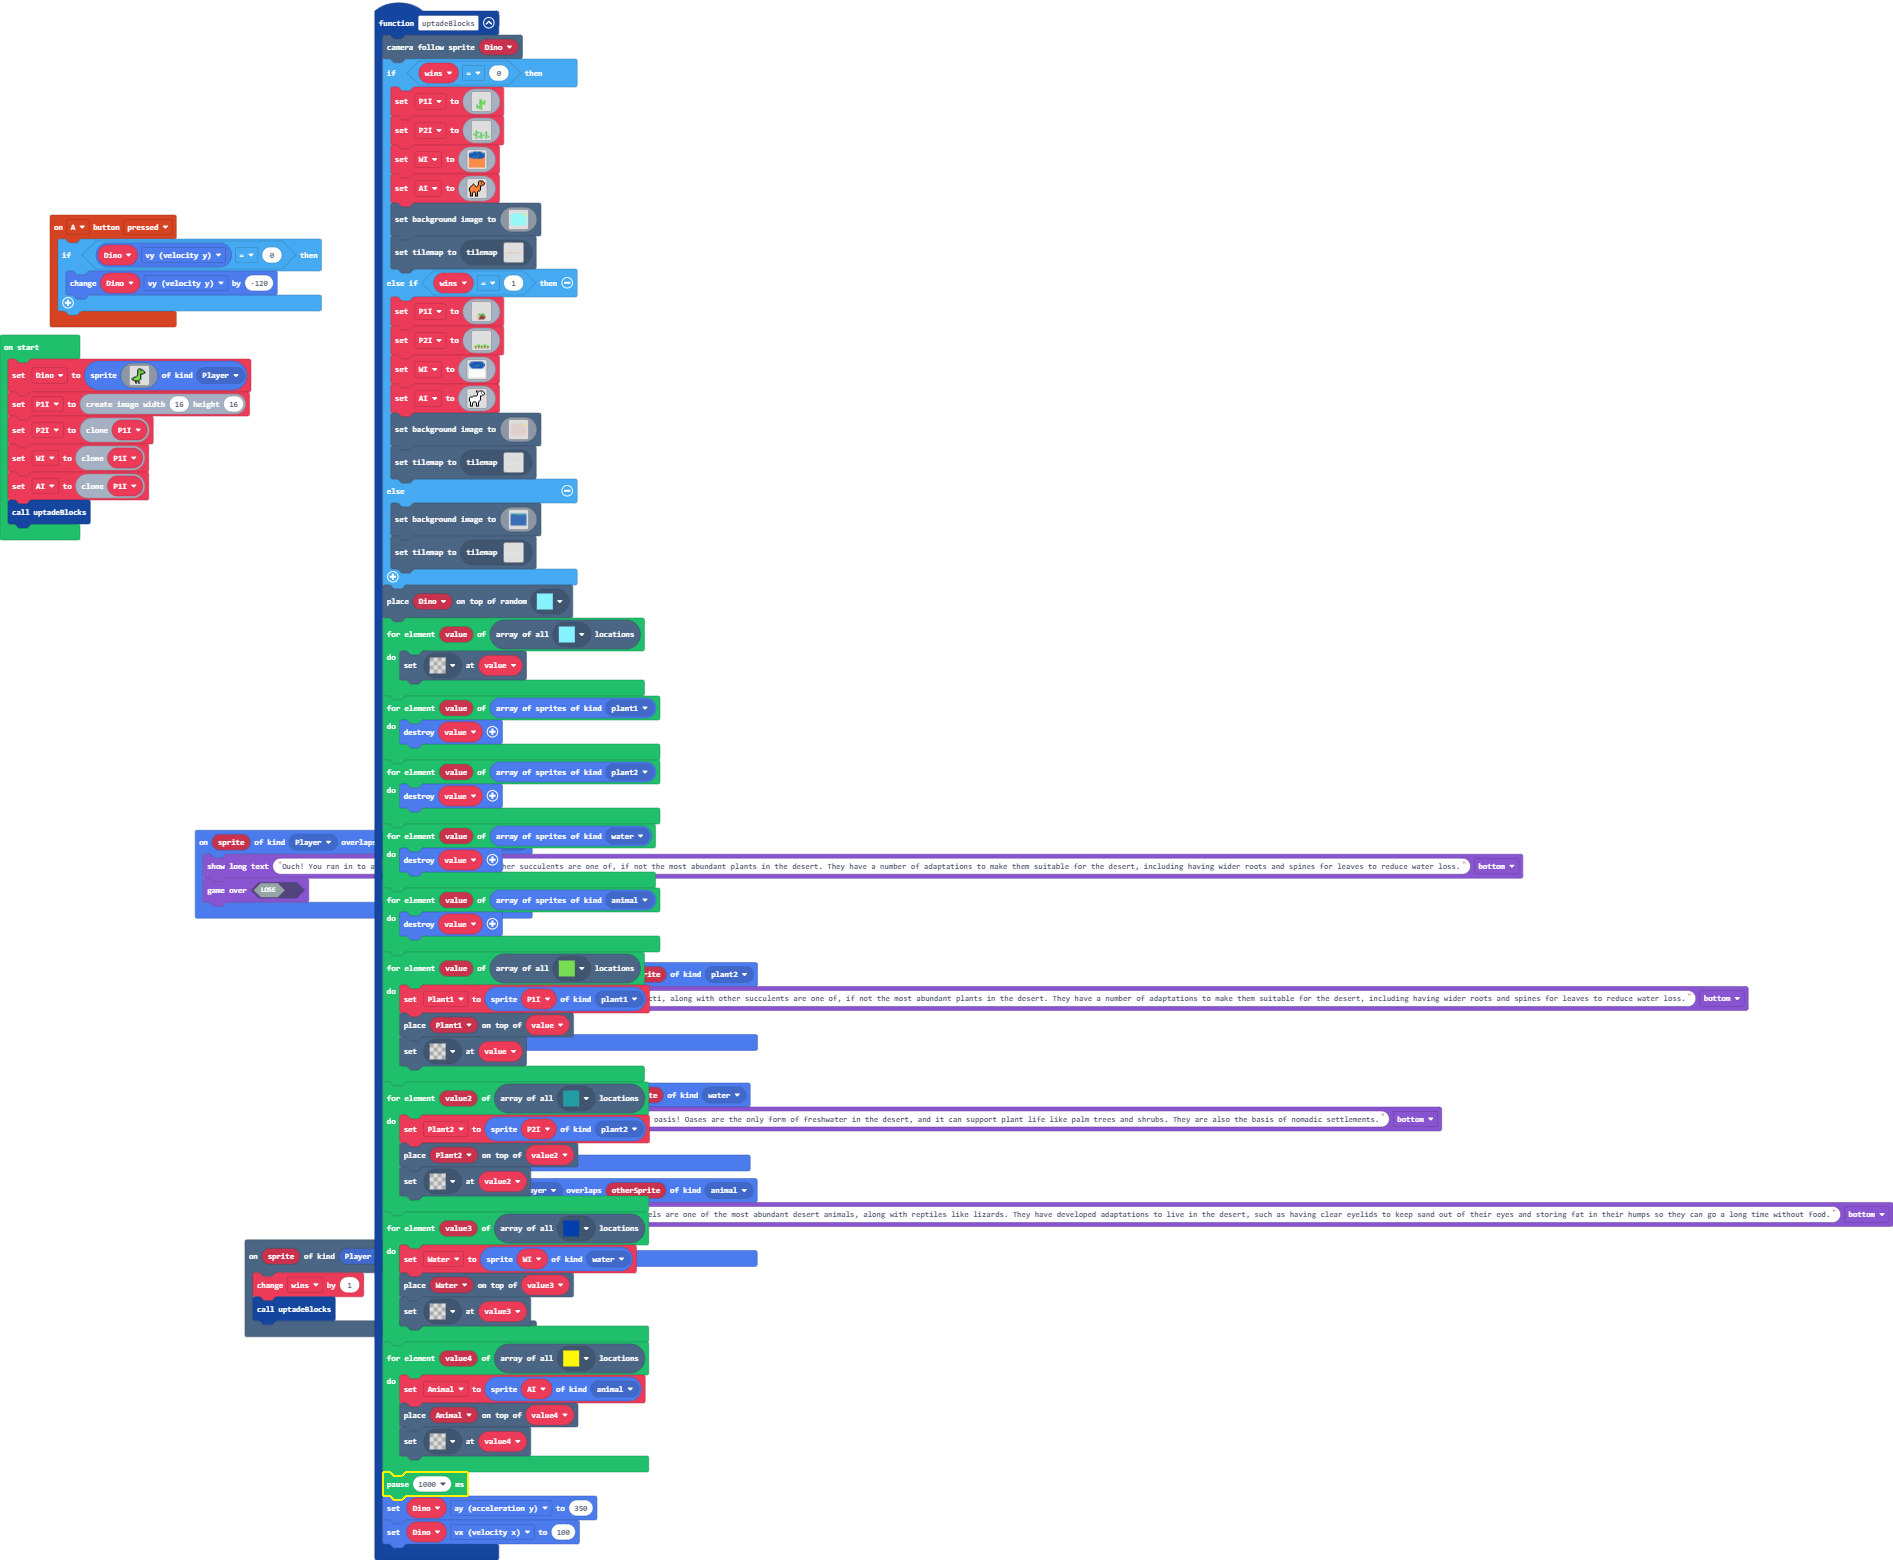
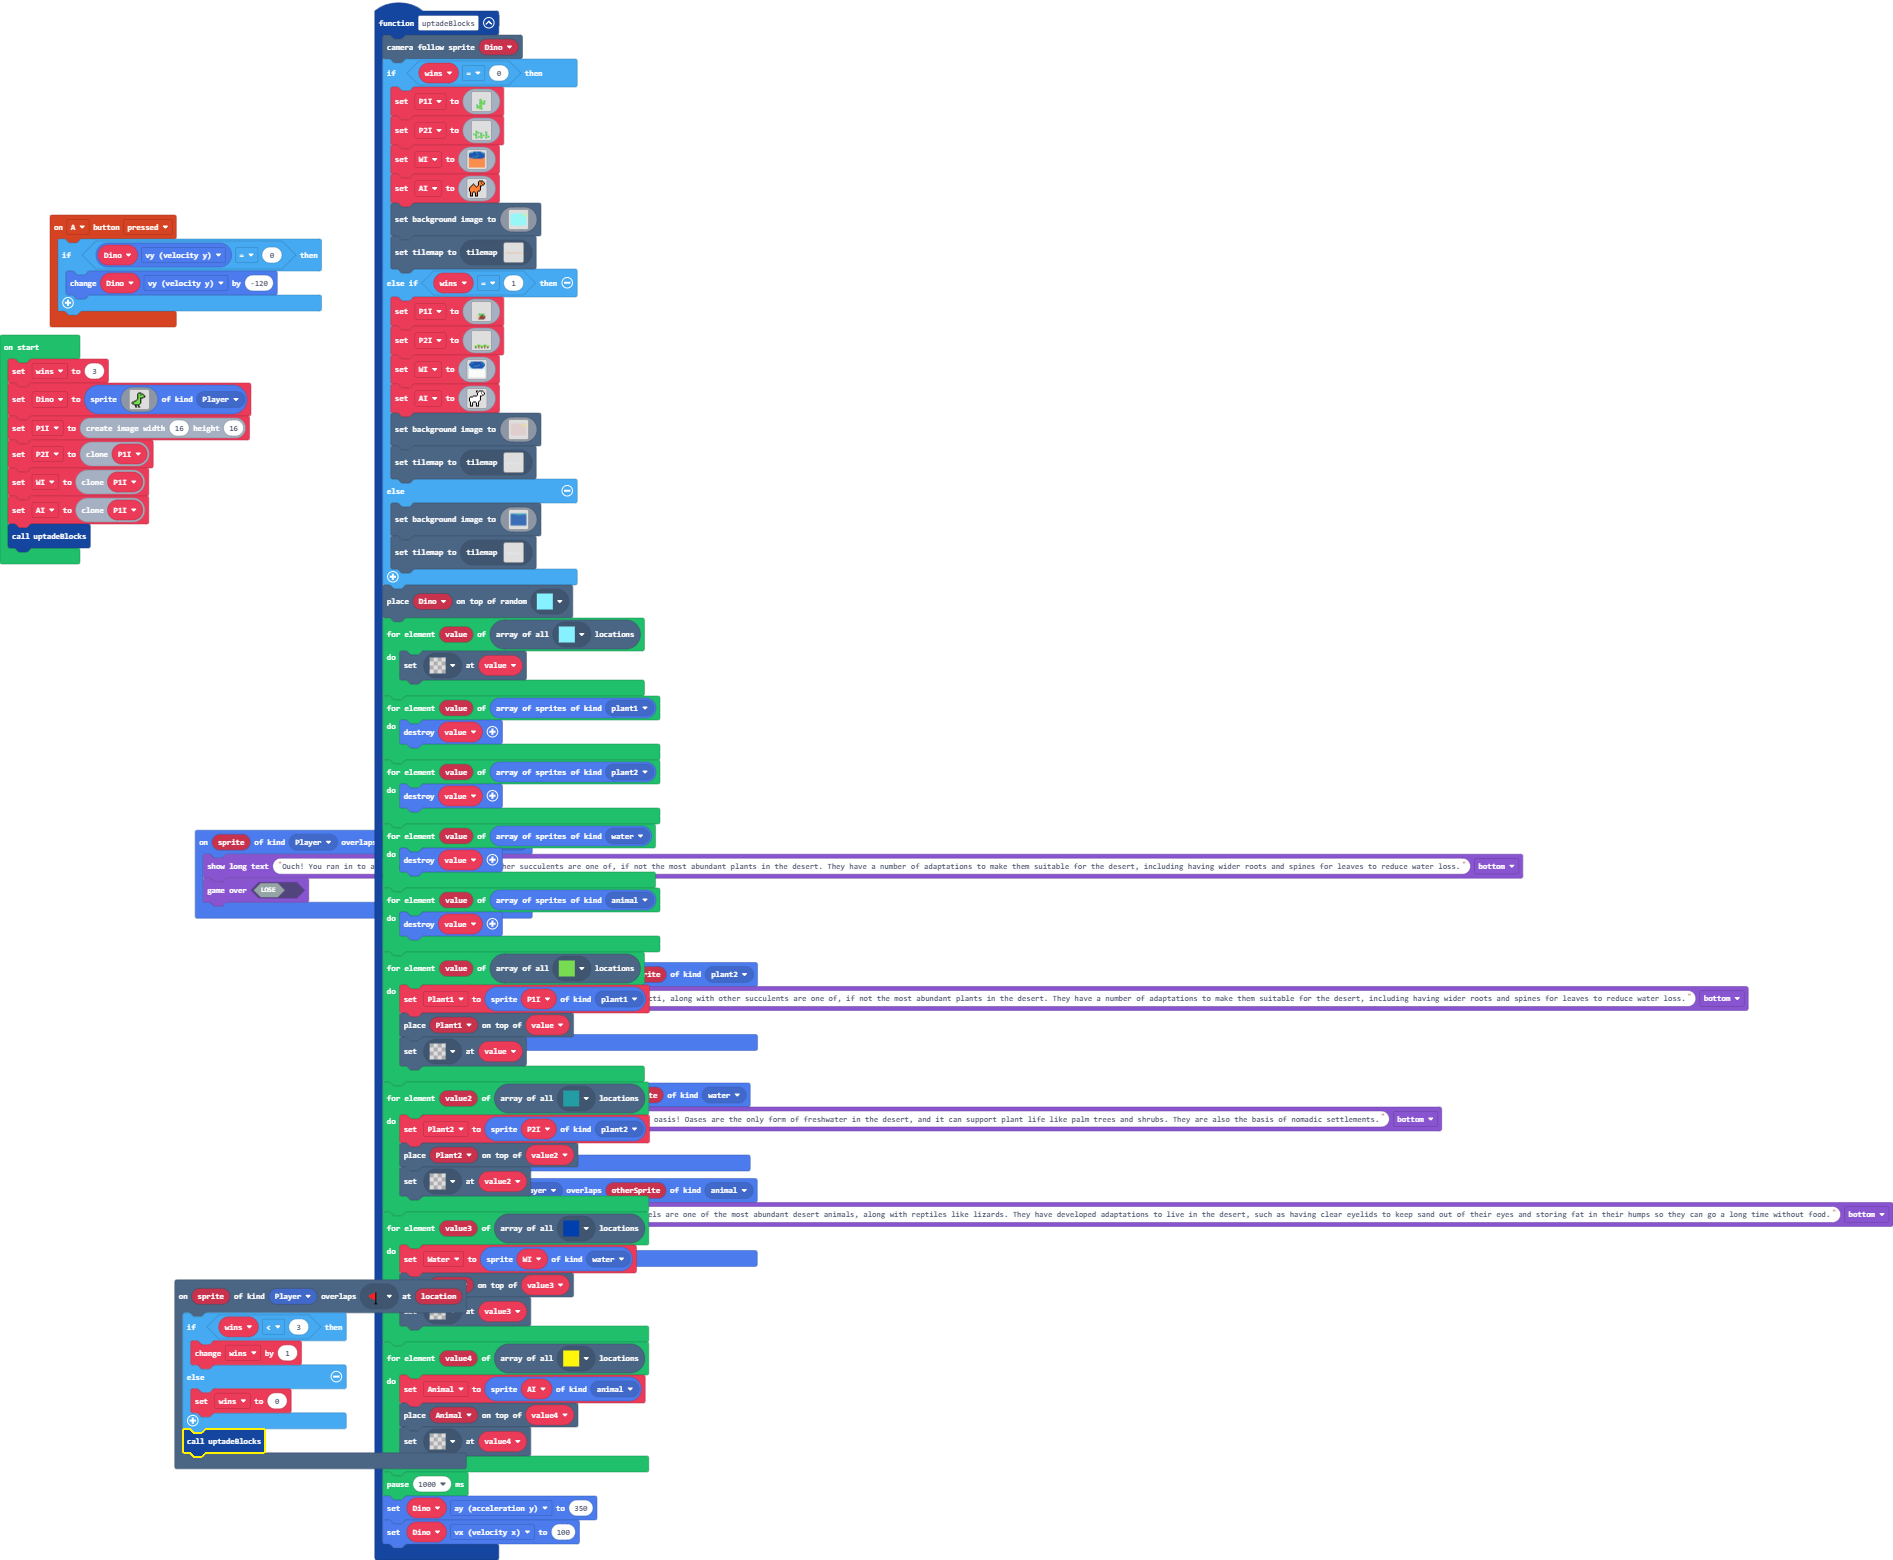
Update main.blocks, main.ts, tilemap.g.jres, tilemap.g.ts

Changed region(s): [[0.0935, 0.7692, 0.2493, 0.9538], [0.0, 0.2154, 0.1558, 0.3692]]

diff --git a/tilemap.g.ts b/tilemap.g.ts
@@ -80,25 +80,6 @@ namespace myTiles {
 . . . . . . . . . . . . . . . . 
 . . . . . . . . . . . . . . . . 
 `, [myTiles.transparency16], TileScale.Sixteen);
-            case "level3":
-            case "level3":return tiles.createTilemap(hex`6400100000000000000000000000000000000000000000000000000000000000000000000000000000000000000000000000000000000000000000000000000000000000000000000000000000000000000000000000000000000000000000000000000000000000000000000000000000000000000000000000000000000000000000000000000000000000000000000000000000000000000000000000000000000000000000000000000000000000000000000000000000000000000000000000000000000000000000000000000000000000000000000000000000000000000000000000000000000000000000000000000000000000000000000000000000000000000000000000000000000000000000000000000000000000000000000000000000000000000000000000000000000000000000000000000000000000000000000000000000000000000000000000000000000000000000000000000000000000000000000000000000000000000000000000000000000000000000000000000000000000000000000000000000000000000000000000000000000000000000000000000000000000000000000000000000000000000000000000000000000000000000000000000000000000000000000000000000000000000000000000000000000000000000000000000000000000000000000000000000000000000000000000000000000000000000000000000000000000000000000000000000000000000000000000000000000000000000000000000000000000000000000000000000000000000000000000000000000000000000000000000000000000000000000000000000000000000000000000000000000000000000000000000000000000000000000000000000000000000000000000000000000000000000000000000000000000000000000000000000000000000000000000000000000000000000000000000000000000000000000000000000000000000000000000000000000000000000000000000000000000000000000000000000000000000000000000000000000000000000000000000000000000000000000000000000000000000000000000000000000000000000000000000000000000000000000000000000000000000000000000000000000000000000000000000000000000000000000000000000000000000000000000000000000000000000000000000000000000000000000000000000000000000000000000000000000000000000000000000000000000000000000000000000000000000000000000000000000000000000000000000000000000000000000000000000000000000000000000000000000000000000000000000000000000000000000000000000000000000000000000000000000000000000000000000000000000000000000000000000000000000000000000000000000000000000000000000000000000000000000000000000000000000000000000000000000000000000000000000000000000000000000000000000000000000000000000000000000000000000000000000000000000000000000000000000000000000000000000000000000000000000000000000000000000000000000000000000000000000000000000000000000000000000000000000000000000000000000000000000000000000000000000000000000000000000000000000000000000000000000000000000000000000000000000000000000000000000000000000000000000000000000000000000000000000000000000000000000000000000000004000000000000000200000000000000000000000000000000000300000000000400000000000000000000000002000000000003000000000000000000000002000000000000000200000000000000000000010606060606060606060506060606060606060606060606060606060606060606060606050606060606060606060606060606060606060606050606060606060606060606060606060606050606060606060606060606060606060606060606060606060607070707070707070707070707070707070707070707070707070707070707070707070707070707070707070707070707070707070707070707070707070707070707070707070707070707070707070707070707070707070707070707070707070707`, img`
-....................................................................................................
-....................................................................................................
-....................................................................................................
-....................................................................................................
-....................................................................................................
-....................................................................................................
-....................................................................................................
-....................................................................................................
-....................................................................................................
-....................................................................................................
-....................................................................................................
-....................................................................................................
-....................................................................................................
-....................................................................................................
-222222222.2222222222222222222222222.22222222222222222222.22222222222222222.2222222222222222222222222
-....................................................................................................
-`, [myTiles.transparency16,myTiles.tile7,myTiles.tile1,myTiles.tile5,myTiles.tile6,myTiles.tile3,myTiles.tile4,myTiles.tile9], TileScale.Sixteen);
             case "level6":
             case "level6":return tiles.createTilemap(hex`1000100000000000000000000000000000000000000000000000000000000000000000000000000000000000000000000000000000000000000000000000000000000000000000000000000000000000000000000000000000000000000000000000000000000000000000000000000000000000000000000000000000000000000000000000000000000000000000000000000000000000000000000000000000000000000000000000000000000000000000000000000000000000000000000000000000000000000000000000000000000000000000000000000000000000000000000000000000000000000000000000000000000000000000000000000000000000`, img`
 . . . . . . . . . . . . . . . . 
@@ -460,6 +441,25 @@ namespace myTiles {
 . . . . . . . . . . . . . . . . 
 . . . . . . . . . . . . . . . . 
 `, [myTiles.transparency16], TileScale.Sixteen);
+            case "level3":
+            case "level3":return tiles.createTilemap(hex`6400100000000000000000000000000000000000000000000000000000000000000000000000000000000000000000000000000000000000000000000000000000000000000000000000000000000000000000000000000000000000000000000000000000000000000000000000000000000000000000000000000000000000000000000000000000000000000000000000000000000000000000000000000000000000000000000000000000000000000000000000000000000000000000000000000000000000000000000000000000000000000000000000000000000000000000000000000000000000000000000000000000000000000000000000000000000000000000000000000000000000000000000000000000000000000000000000000000000000000000000000000000000000000000000000000000000000000000000000000000000000000000000000000000000000000000000000000000000000000000000000000000000000000000000000000000000000000000000000000000000000000000000000000000000000000000000000000000000000000000000000000000000000000000000000000000000000000000000000000000000000000000000000000000000000000000000000000000000000000000000000000000000000000000000000000000000000000000000000000000000000000000000000000000000000000000000000000000000000000000000000000000000000000000000000000000000000000000000000000000000000000000000000000000000000000000000000000000000000000000000000000000000000000000000000000000000000000000000000000000000000000000000000000000000000000000000000000000000000000000000000000000000000000000000000000000000000000000000000000000000000000000000000000000000000000000000000000000000000000000000000000000000000000000000000000000000000000000000000000000000000000000000000000000000000000000000000000000000000000000000000000000000000000000000000000000000000000000000000000000000000000000000000000000000000000000000000000000000000000000000000000000000000000000000000000000000000000000000000000000000000000000000000000000000000000000000000000000000000000000000000000000000000000000000000000000000000000000000000000000000000000000000000000000000000000000000000000000000000000000000000000000000000000000000000000000000000000000000000000000000000000000000000000000000000000000000000000000000000000000000000000000000000000000000000000000000000000000000000000000000000000000000000000000000000000000000000000000000000000000000000000000000000000000000000000000000000000000000000000000000000000000000000000000000000000000000000000000000000000000000000000000000000000000000000000000000000000000000000000000000000000000000000000000000000000000000000000000000000000000000000000000000000000000000000000000000000000000000000000000000000000000000000000000000000000000000000000000000000000000000000000000000000000000000000000000000000000000000000000000000000000000000000000000000000000000000000000000000000000000000000000000000000000000000000000000000000000000000000000000000000000000000000000000000000000000000000000000000000000000000000000000000000000000000000000000000000000000010202020202020202020002020202020202020202020202020202020202020202020202000202020202020202020202020202020202020202000202020202020202020202020202020202000202020202020202020202020202020202020202020202020203030303030303030303030303030303030303030303030303030303030303030303030303030303030303030303030303030303030303030303030303030303030303030303030303030303030303030303030303030303030303030303030303030303`, img`
+....................................................................................................
+....................................................................................................
+....................................................................................................
+....................................................................................................
+....................................................................................................
+....................................................................................................
+....................................................................................................
+....................................................................................................
+....................................................................................................
+....................................................................................................
+....................................................................................................
+....................................................................................................
+....................................................................................................
+....................................................................................................
+222222222.2222222222222222222222222.22222222222222222222.22222222222222222.2222222222222222222222222
+....................................................................................................
+`, [myTiles.transparency16,myTiles.tile7,myTiles.tile4,myTiles.tile9], TileScale.Sixteen);
         }
         return null;
     })

diff --git a/main.ts b/main.ts
@@ -589,7 +589,11 @@ sprites.onOverlap(SpriteKind.Player, SpriteKind.water, function (sprite, otherSp
     game.gameOver(false)
 })
 scene.onOverlapTile(SpriteKind.Player, assets.tile`myTile5`, function (sprite, location) {
-    wins += 1
+    if (wins < 3) {
+        wins += 1
+    } else {
+        wins = 0
+    }
     uptadeBlocks()
 })
 sprites.onOverlap(SpriteKind.Player, SpriteKind.animal, function (sprite, otherSprite) {
@@ -600,12 +604,13 @@ let Animal: Sprite = null
 let Water: Sprite = null
 let Plant2: Sprite = null
 let Plant1: Sprite = null
-let wins = 0
 let AI: Image = null
 let WI: Image = null
 let P2I: Image = null
 let P1I: Image = null
 let Dino: Sprite = null
+let wins = 0
+wins = 3
 Dino = sprites.create(img`
     . . . . . . . . . . . . . . . . 
     . . . . . . . f f f . . . . . . 
